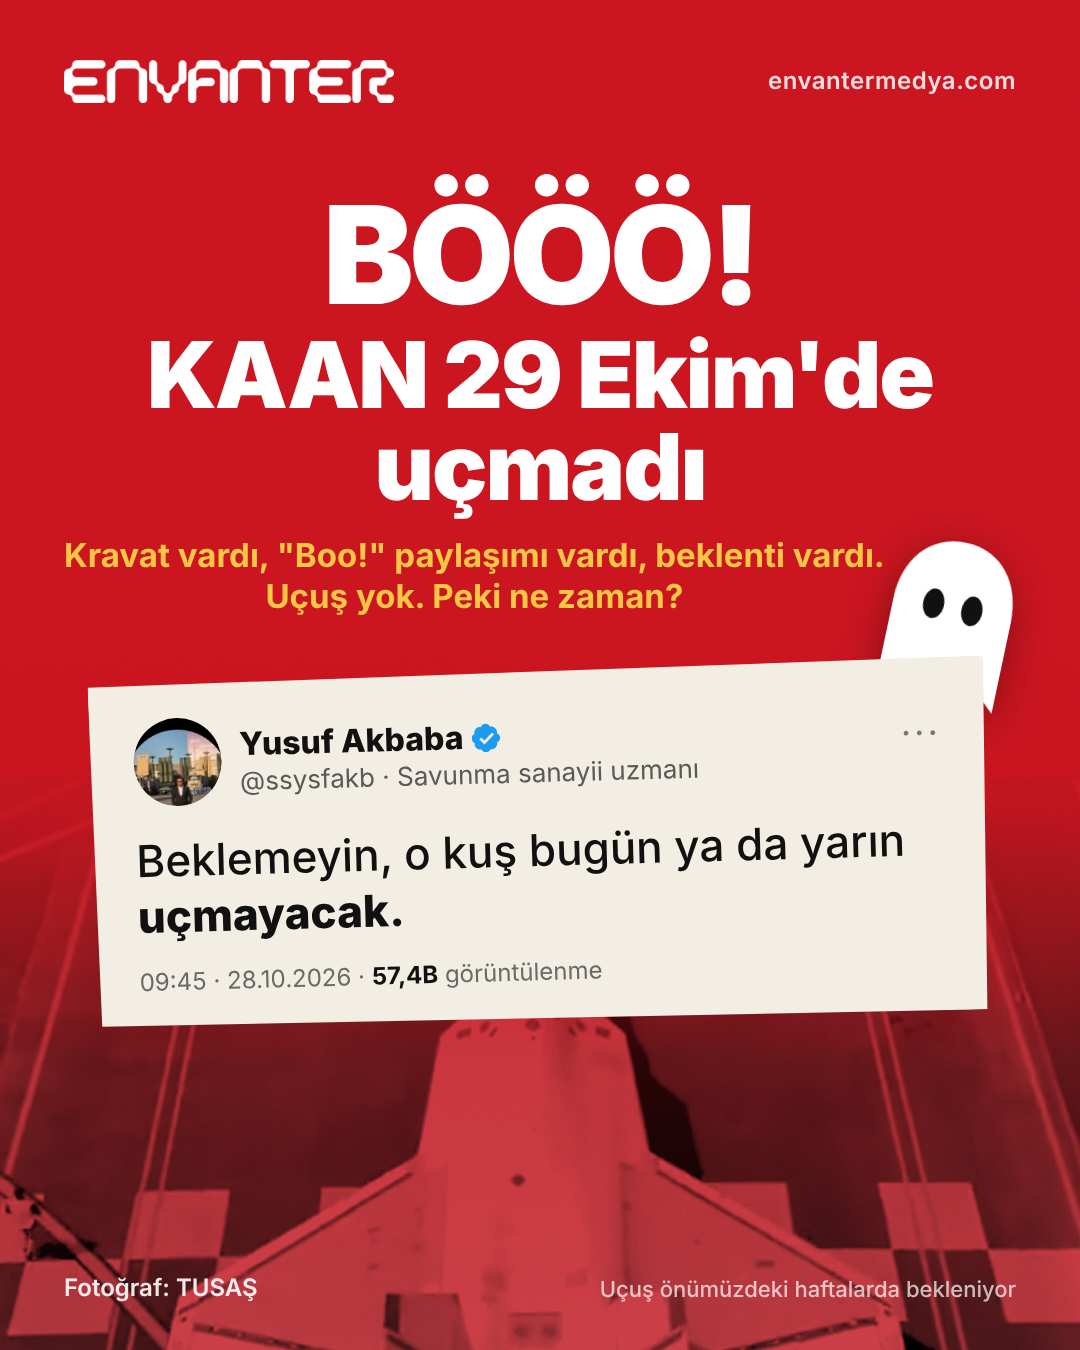
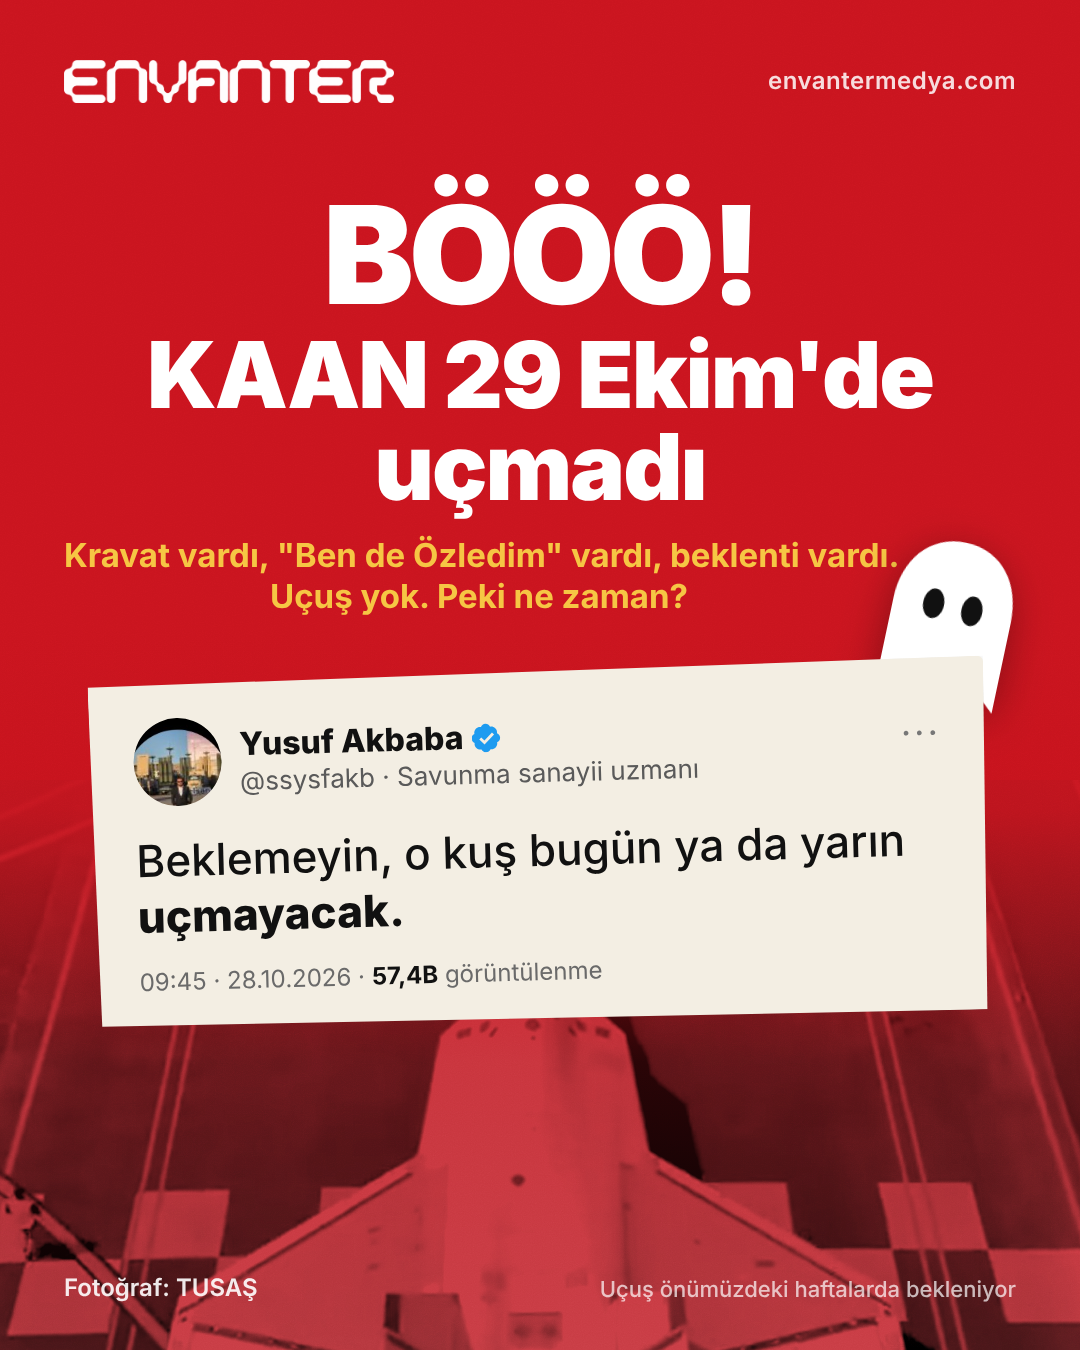
KAAN 29 Ekim kartı: alt yazı ve caption TUSAŞ'ın "Ben de Özledim" videosuna göre düzeltildi
Claude-Session: https://claude.ai/code/session_01AWoAGzbCcH5xr3TPTj3t44

Changed region(s): [[0.2444, 0.4044, 0.825, 0.4667]]

diff --git a/kartlar/kaan-29-ekim/kaan-29-ekim.html b/kartlar/kaan-29-ekim/kaan-29-ekim.html
@@ -45,7 +45,7 @@ html,body{width:1080px;height:1350px;overflow:hidden;background:#C9141E;font-fam
   <div class="site">envantermedya.com</div>
 
   <div class="head"><div class="h1"><span class="em">BÖÖÖ!</span>KAAN 29 Ekim'de uçmadı</div>
-  <div class="sub">Kravat vardı, "Boo!" paylaşımı vardı, beklenti vardı.<br>Uçuş yok. Peki ne zaman?</div></div>
+  <div class="sub">Kravat vardı, "Ben de Özledim" vardı, beklenti vardı.<br>Uçuş yok. Peki ne zaman?</div></div>
 
   <svg class="ghost" viewBox="0 0 100 120"><path d="M50 4C25 4 10 24 10 50v62l10-9 10 9 10-9 10 9 10-9 10 9 10-9 10 9V50C90 24 75 4 50 4z" fill="#fff"/><ellipse cx="37" cy="48" rx="7" ry="10" fill="#111"/><ellipse cx="63" cy="48" rx="7" ry="10" fill="#111"/></svg>
 

diff --git a/kartlar/kaan-29-ekim/caption.md b/kartlar/kaan-29-ekim/caption.md
@@ -2,11 +2,13 @@
 
 Görsel: `kaan-29-ekim.png` (1080×1350, Instagram 4:5). Kaynak: `kaan-29-ekim.html`.
 
+Bağlam: "Bööö!" başlığı, Envanter'in Cadılar Bayramı için paylaştığı hayalet örtülü KAAN görseline gönderme. TUSAŞ'ın paylaşımı ise Erdoğan'ın KAAN kravatının ardından Ferdi Tayfur'un "Ben de Özledim" şarkısıyla yayımladığı KAAN videosu.
+
 ## Instagram / Facebook
 
 👻 Bööö! KAAN'dan 29 Ekim sürprizi bekleyenlere…
 
-Cumhurbaşkanı Erdoğan'ın KAAN temalı kravatı ve TUSAŞ'ın "Boo!" paylaşımı, millî muharip uçağımızın 29 Ekim'de yeniden gökyüzüyle buluşacağı beklentisini artırmıştı. Bayram sabahı gözler Ankara'daydı.
+Cumhurbaşkanı Erdoğan'ın KAAN temalı kravatı, ardından TUSAŞ'ın Ferdi Tayfur'un "Ben de Özledim" şarkısıyla paylaştığı KAAN videosu, millî muharip uçağımızın 29 Ekim'de yeniden gökyüzüyle buluşacağı beklentisini artırmıştı. Bayram sabahı gözler Ankara'daydı.
 
 Uçuş gelmedi. Savunma sanayii uzmanı Yusuf Akbaba daha 28 Ekim'de uyarmıştı: "Beklemeyin, o kuş bugün ya da yarın uçmayacak."
 
@@ -16,10 +18,10 @@ KAAN'ın önümüzdeki haftalarda yeniden havalanması bekleniyor. Tarih netleş
 
 ## X
 
-KAAN 29 Ekim'de uçmadı. Erdoğan'ın KAAN kravatı ve TUSAŞ'ın "Boo!" paylaşımı beklentiyi büyütmüştü; Yusuf Akbaba ise 28 Ekim'de "o kuş bugün ya da yarın uçmayacak" demişti. Yeni uçuş önümüzdeki haftalarda bekleniyor. 👻
+KAAN 29 Ekim'de uçmadı. Erdoğan'ın KAAN kravatı ve TUSAŞ'ın "Ben de Özledim" şarkılı KAAN videosu beklentiyi büyütmüştü; Yusuf Akbaba ise 28 Ekim'de "o kuş bugün ya da yarın uçmayacak" demişti. Yeni uçuş önümüzdeki haftalarda bekleniyor. 👻
 
 #KAAN #TUSAŞ #SavunmaSanayii
 
 ## Kısa sürüm (story / LinkedIn)
 
-Kravat vardı, "Boo!" vardı, beklenti vardı. KAAN 29 Ekim'de uçmadı. Yeni uçuş önümüzdeki haftalarda bekleniyor.
+Kravat vardı, "Ben de Özledim" vardı, beklenti vardı. KAAN 29 Ekim'de uçmadı. Yeni uçuş önümüzdeki haftalarda bekleniyor.
